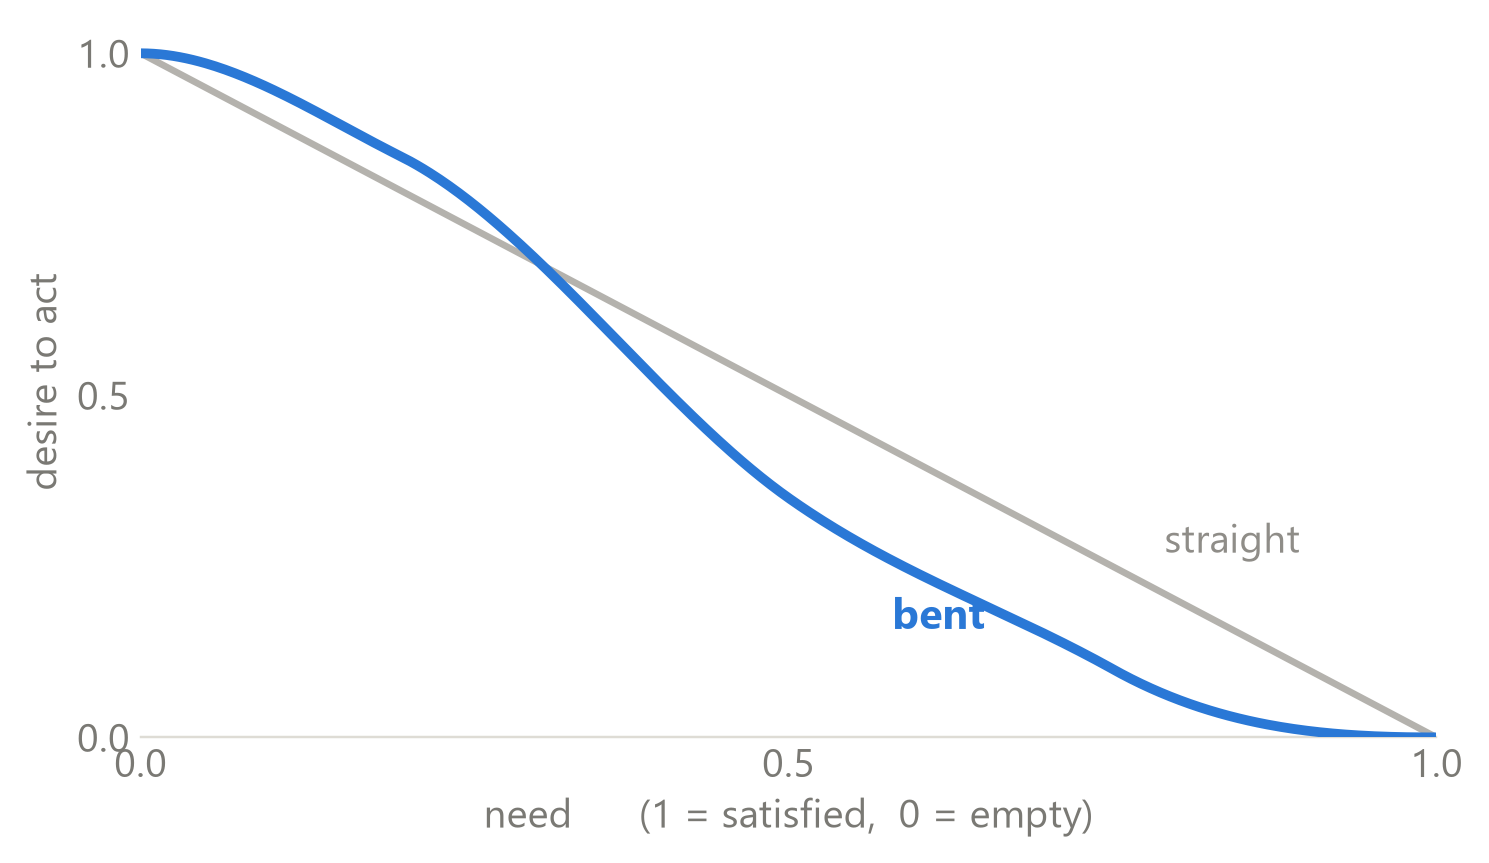
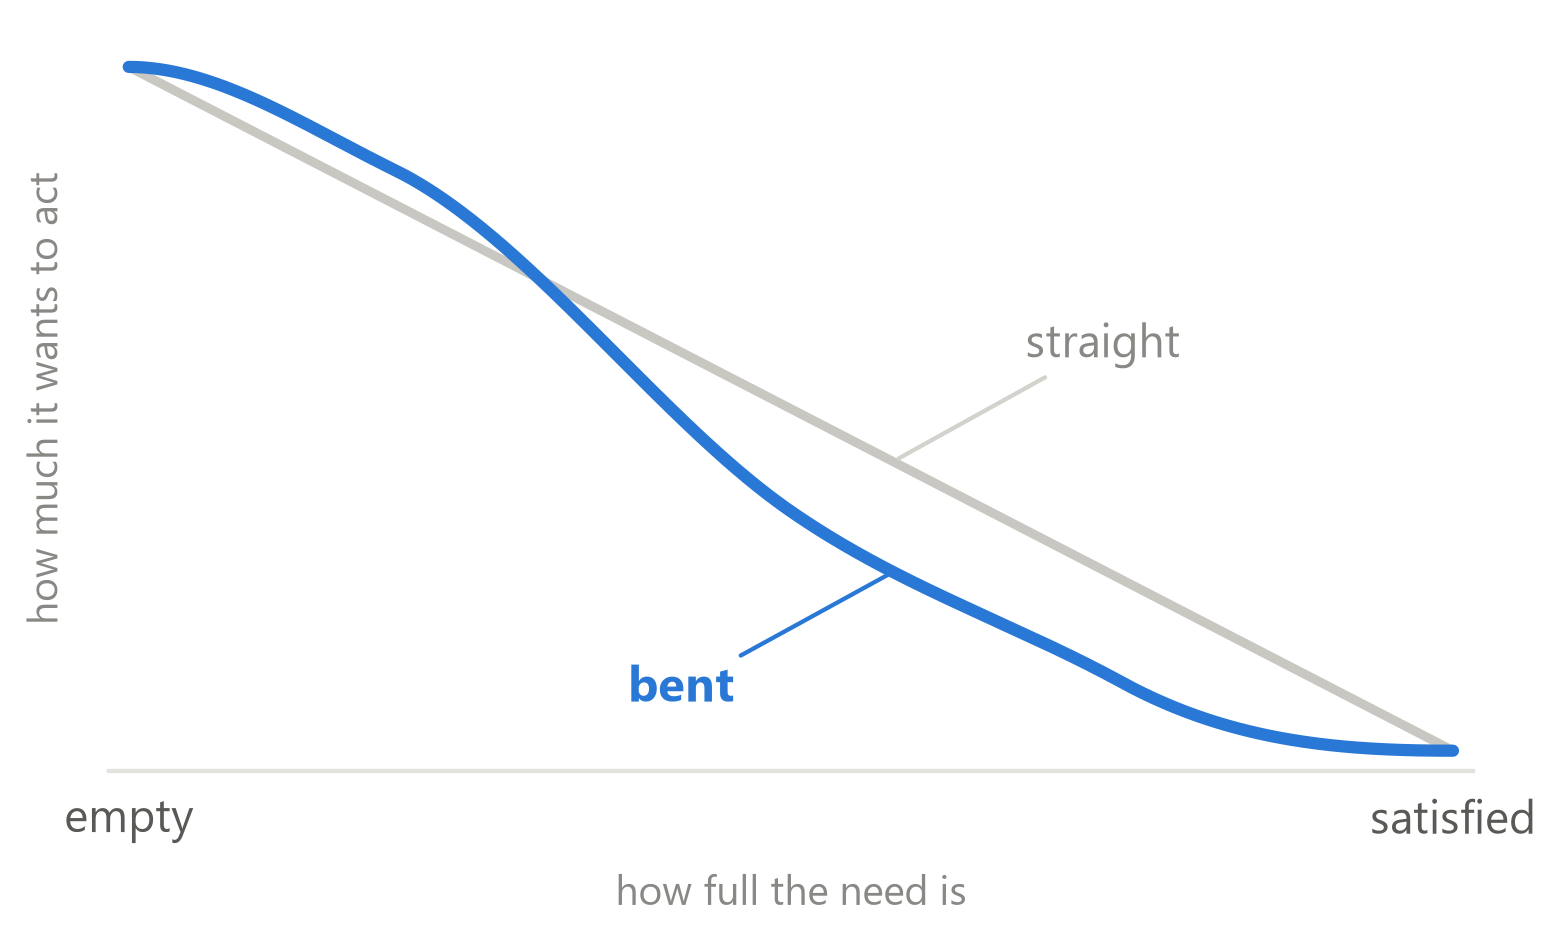
Redraw the response curve figure so the axis explains itself
The old version put "need (1 = satisfied, 0 = empty)" under the x axis. A
chart that needs a parenthetical to be read has an axis problem, so the
ends are now labelled empty and satisfied directly.

Labels moved to where the two lines are furthest apart, on short leaders,
instead of sitting on the curve. The y axis loses its numbers: this slide
is about the shape, not the values. Thicker lines, rounded caps, more
room.

diff --git a/make_slide_figures.py b/make_slide_figures.py
@@ -132,19 +132,47 @@ def slide_problem():
 
 # =========================================================== 2. the curve
 def slide_curves():
-    """One claim: it can be straight, or it can be bent."""
-    xs = np.linspace(0, 1, 400)
-    fig, ax = plt.subplots(figsize=(7.6, 4.2))
-    ax.plot(xs, 1 - xs, "-", color=GREY, linewidth=2.2, zorder=2)
-    ax.plot(xs, curve(xs), "-", color=ACCENT, linewidth=3.2, zorder=3)
-    ax.text(0.79, 1 - 0.79 + 0.06, "straight", color="#8f8d88", fontsize=13)
-    ax.text(0.58, curve(np.array([0.58]))[0] - 0.10, "bent", color=ACCENT,
-            fontsize=14, fontweight="bold")
-    ax.set_xlabel("need      (1 = satisfied,  0 = empty)", color="#7a7974")
-    ax.set_ylabel("desire to act", color="#7a7974")
-    ax.set_xlim(0, 1); ax.set_ylim(0, 1.04)
-    ax.set_xticks([0, 0.5, 1]); ax.set_yticks([0, 0.5, 1])
-    bare(ax)
+    """One claim: it can be straight, or it can be bent.
+
+    The axis tells the reader which end is which, so the chart does not need
+    a parenthetical to explain itself. Labels sit where the two lines are
+    furthest apart, on short leaders, instead of crowding the curve.
+    """
+    xs = np.linspace(0, 1, 500)
+    yl, yc = 1 - xs, curve(xs)
+
+    fig, ax = plt.subplots(figsize=(8.0, 4.4))
+
+    ax.plot(xs, yl, "-", color="#c9c7c1", linewidth=3.0,
+            solid_capstyle="round", zorder=2)
+    ax.plot(xs, yc, "-", color=ACCENT, linewidth=4.0,
+            solid_capstyle="round", zorder=3)
+
+    # label where the gap is widest, on short leaders
+    gap = np.argmax(np.abs(yc - yl))
+    gx = xs[gap]
+    ax.annotate("straight", xy=(gx, yl[gap]), xytext=(gx + 0.10, yl[gap] + 0.17),
+                color="#8a8884", fontsize=15, ha="left", va="center",
+                arrowprops=dict(arrowstyle="-", color="#d4d2cc", linewidth=1.4))
+    ax.annotate("bent", xy=(gx, yc[gap]), xytext=(gx - 0.12, yc[gap] - 0.17),
+                color=ACCENT, fontsize=16, fontweight="bold", ha="right",
+                va="center",
+                arrowprops=dict(arrowstyle="-", color=ACCENT, linewidth=1.4))
+
+    ax.set_xlim(-0.015, 1.015)
+    ax.set_ylim(-0.03, 1.06)
+    ax.set_xticks([0, 1])
+    ax.set_xticklabels(["empty", "satisfied"], fontsize=15, color="#5a5955")
+    ax.set_yticks([])
+    ax.set_xlabel("how full the need is", fontsize=13.5, color="#8a8884", labelpad=10)
+    ax.set_ylabel("how much it wants to act", fontsize=13.5, color="#8a8884",
+                  labelpad=14)
+
+    for sp in ("top", "right", "left"):
+        ax.spines[sp].set_visible(False)
+    ax.spines["bottom"].set_color("#e4e2dc")
+    ax.spines["bottom"].set_linewidth(1.4)
+    ax.tick_params(length=0, pad=9)
     save(fig, "slide_curves.png")
 
 
